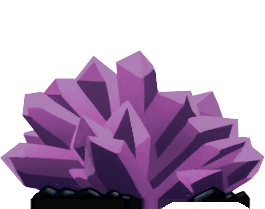
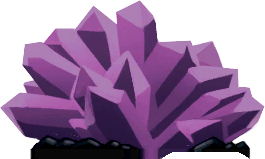
add: add a obstacle

diff --git a/src/level_dream.py b/src/level_dream.py
@@ -36,7 +36,9 @@ class LevelDream(Level):
         battle_image = pygame.image.load(
             "assets/graphics/environment/ground/en2_ground.png"
         ).convert_alpha()
-
+        deco_image = pygame.image.load(
+            "assets/graphics/environment/dream/crystal.png"
+        ).convert_alpha()
         Tile(
             self.scale * ENV.LEVEL_DREAM.IMAGE_SCALE,
             (-240, 60),
@@ -95,6 +97,14 @@ class LevelDream(Level):
             battle_image,
             ENV.LEVEL_DREAM.PLAT2_HITBOX_OFFSET,
         )
+        Tile(  # 紫水晶
+            self.scale * ENV.LEVEL_DREAM.IMAGE_SCALE ,
+            (300, -700),
+            [self.visible_sprites, self.obstacle_sprites],
+            "blocks",
+            deco_image,
+            ENV.LEVEL_DREAM.NO_HITBOX_OFFSET,
+        )
 
         NPCTutorial(
             self.scale,
@@ -125,7 +135,7 @@ class LevelDream(Level):
             )
             EnemyCentipede(  # enemy 3
                 self.scale,
-                (1100, -1180),
+                (1500, -1180),
                 [self.visible_sprites, self.attackable_sprites],
                 self.trigger_death,
             )
